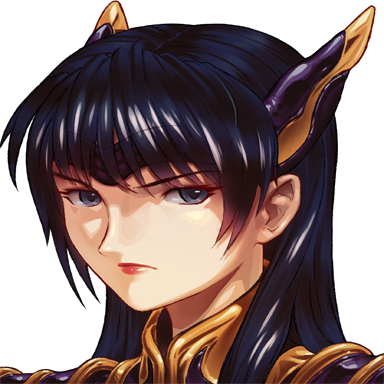
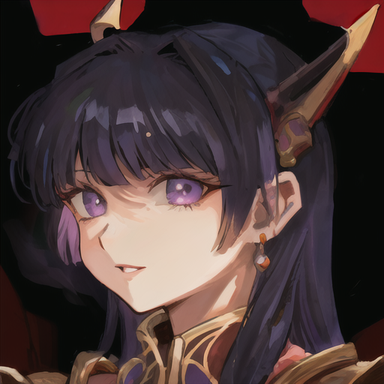
Regenerate portraits in a 90s anime style
- All nine portraits are now locally generated cel-shaded anime art
  (Counterfeit V2.5 on MPS): eight are img2img style transfers from the
  vendored renders so each character keeps its likeness, and Kongol is
  txt2img since his only vendored source is the native 48px glyph
- tools/gen_portraits.py reproduces the set; README updated to note the
  new provenance (no more vendored painted-style renders)

Generated with [Devin](https://devin.ai)

diff --git a/own_mods/portrait_pack/tools/gen_portraits.py b/own_mods/portrait_pack/tools/gen_portraits.py
@@ -1,0 +1,114 @@
+#!/usr/bin/env python3
+"""Regenerate the 90s-anime HD portraits in ../mods/portraitpack/.
+
+Locally generated with an SD 1.5 anime checkpoint (gsdf/Counterfeit-V2.5)
+running on Apple Silicon via PyTorch MPS — no external services.
+
+Characters with a usable 384px source go through img2img at low denoise so
+the likeness survives the style transfer; Kongol (only a 48px source exists)
+is txt2img since the pixel art anchors nothing but skin-tone/hair artefacts.
+
+Setup:
+  python3 -m venv /tmp/pgen
+  /tmp/pgen/bin/pip install torch diffusers transformers accelerate safetensors pillow numpy
+
+Usage:
+  /tmp/pgen/bin/python gen_portraits.py [char ...]   # default: all
+Outputs land in ../mods/portraitpack/ at 384x384.
+"""
+
+import os
+import sys
+
+os.environ.setdefault("PYTORCH_ENABLE_MPS_FALLBACK", "1")
+
+import torch
+from diffusers import StableDiffusionImg2ImgPipeline, StableDiffusionPipeline
+from PIL import Image
+
+MODEL = "gsdf/Counterfeit-V2.5"
+HERE = os.path.dirname(os.path.abspath(__file__))
+OUT = os.path.join(HERE, "..", "mods", "portraitpack")
+
+STYLE = (
+    "1990s anime style, retro cel shaded anime, vintage ova aesthetic, "
+    "hand painted, thick lineart, muted colors, slight grain, portrait, "
+    "head and shoulders, dark gradient background"
+)
+NEG = (
+    "3d, realistic, photo, cgi, modern anime style, moe, glossy, shiny, "
+    "blurry, extra limbs, bad anatomy, deformed, text, watermark, "
+    "signature, lowres"
+)
+NEG_HAIR = NEG + ", hair, long hair, two people, multiple heads"
+
+CHARS = {
+    "dart":    "young man with spiky blonde hair and red headband, red armor, determined green eyes",
+    "lavitz":  "young knight with short brown hair, red and white armor, kind brown eyes",
+    "shana":   "young woman with long brown hair, white and pink dress, gentle brown eyes",
+    "rose":    "stern woman with long dark purple hair, dark armor, cold violet eyes",
+    "haschel": "elderly martial artist man with grey hair and mustache, orange robe, sharp eyes",
+    "albert":  "young royal knight with wavy blonde hair, gold circlet, green and white armor",
+    "meru":    "cheerful young woman with long silver hair, red dress and headband, playful smile",
+    "miranda": "young noblewoman with blonde hair and gold tiara, white outfit, stern blue eyes",
+}
+DENOISE = 0.55
+SEED = 4242
+
+# Kongol: 48px source only -> txt2img. Trait-critical words go first so they
+# survive the 77-token CLIP truncation.
+KONGOL_PROMPT = (
+    "bald man, dark skin, huge muscular warrior, (completely bald head:1.3), "
+    "fierce scowl, scar, heavy brow, square jaw, gold earring, red armor, "
+    "1990s anime style, retro cel shaded, hand painted, thick lineart, "
+    "portrait, dark background"
+)
+KONGOL_SEED = 73  # seed that produced the shipped portrait
+
+
+def load_i2i():
+    pipe = StableDiffusionImg2ImgPipeline.from_pretrained(
+        MODEL, dtype=torch.float16, safety_checker=None, requires_safety_checker=False,
+    ).to("mps")
+    pipe.enable_attention_slicing()
+    pipe.set_progress_bar_config(disable=True)
+    return pipe
+
+
+def load_t2i():
+    pipe = StableDiffusionPipeline.from_pretrained(
+        MODEL, dtype=torch.float16, safety_checker=None, requires_safety_checker=False,
+    ).to("mps")
+    pipe.enable_attention_slicing()
+    pipe.set_progress_bar_config(disable=True)
+    return pipe
+
+
+def main():
+    names = sys.argv[1:] or [*CHARS, "kongol"]
+    i2i = t2i = None
+    for name in names:
+        out = os.path.join(OUT, f"{name}.png")
+        if name == "kongol":
+            t2i = t2i or load_t2i()
+            img = t2i(
+                prompt=KONGOL_PROMPT, negative_prompt=NEG_HAIR,
+                height=512, width=512, guidance_scale=7.5,
+                num_inference_steps=35,
+                generator=torch.Generator("mps").manual_seed(KONGOL_SEED),
+            ).images[0]
+        else:
+            i2i = i2i or load_i2i()
+            src = Image.open(out).convert("RGB").resize((512, 512), Image.LANCZOS)
+            img = i2i(
+                prompt=f"{STYLE}, {CHARS[name]}", negative_prompt=NEG,
+                image=src, strength=DENOISE, guidance_scale=7.0,
+                num_inference_steps=30,
+                generator=torch.Generator("mps").manual_seed(SEED),
+            ).images[0]
+        img.resize((384, 384), Image.LANCZOS).save(out)
+        print(f"{name}: done", flush=True)
+
+
+if __name__ == "__main__":
+    main()

diff --git a/own_mods/README.md b/own_mods/README.md
@@ -38,13 +38,15 @@ Sparkle frames in `mods/stardustindicator/sparkle/` are procedurally generated
 
 ## portrait_pack
 
-Substitutes 384px re-rendered portraits for the stock 48px glyph-sheet faces
-everywhere a retail character portrait renders. `mods/portraitpack/*.png` are
-vendored from `third_party/sc-dragoon-modifier` (Kongol only exists at 48px
-there) and packed into a dedicated `TextureAtlas` (the shared 512x512 atlas
-can't hold nine 384px images); `getPortraitIcon` falls back to the stock atlas
-icon for characters without HD art, so desktop builds and modded characters
-degrade cleanly.
+Substitutes 384px 90s-anime-style portraits for the stock 48px glyph-sheet
+faces everywhere a retail character portrait renders. `mods/portraitpack/*.png`
+are generated locally with an SD 1.5 anime checkpoint (Counterfeit V2.5) —
+`tools/gen_portraits.py` reproduces them; eight are img2img style transfers
+from the vendored dragoon_modifier renders and Kongol is txt2img (his only
+vendored source is the native 48px glyph). The mod packs them into a dedicated
+`TextureAtlas` (the shared 512x512 atlas can't hold nine 384px images);
+`getPortraitIcon` falls back to the stock atlas icon for characters without HD
+art, so desktop builds and modded characters degrade cleanly.
 
 Two staged-source transform families in `android/build.gradle` do the
 substitution:
